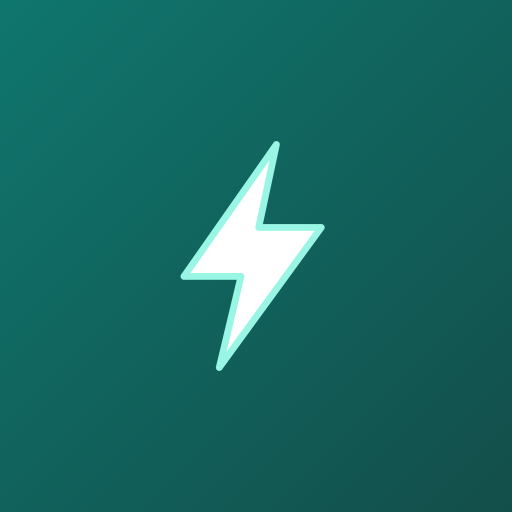
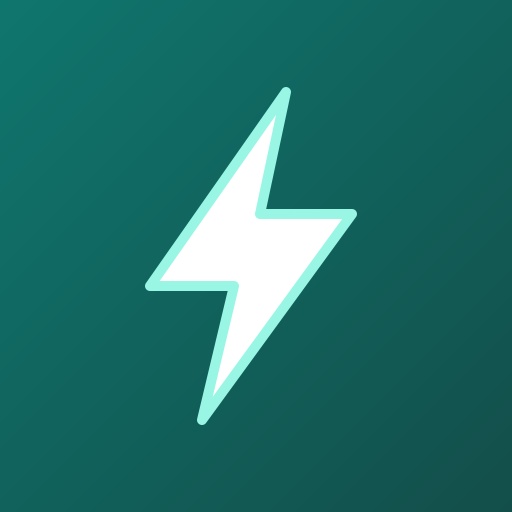
maskable 图标闪电尺寸与普通图标一致，修复 iOS 桌面图标变小

Changed region(s): [[0.2812, 0.1562, 0.7188, 0.8438]]

diff --git a/sw.js b/sw.js
@@ -1,4 +1,4 @@
-const CACHE = "sdx-v22";
+const CACHE = "sdx-v23";
 const ASSETS = [
   "./",
   "./index.html",
